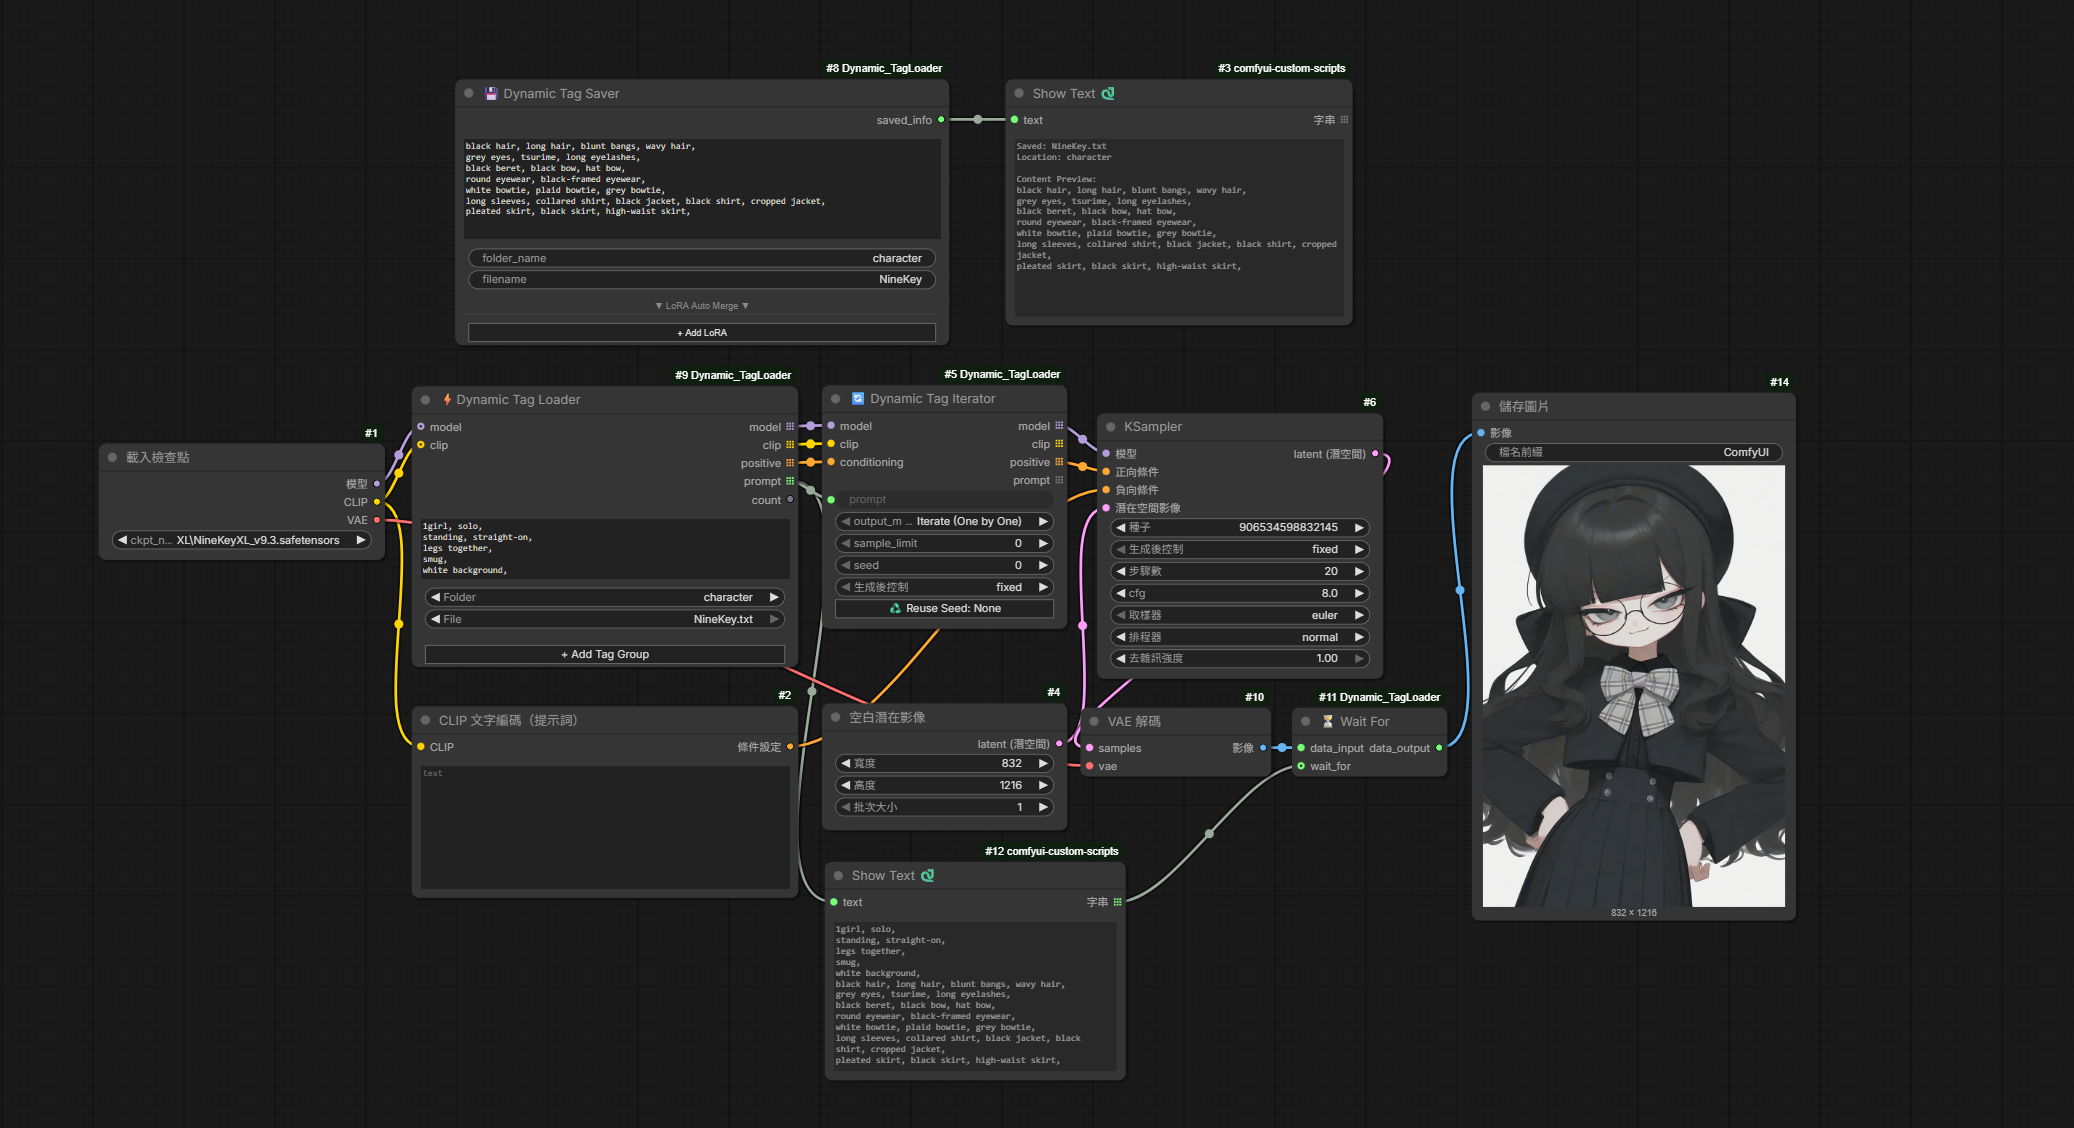
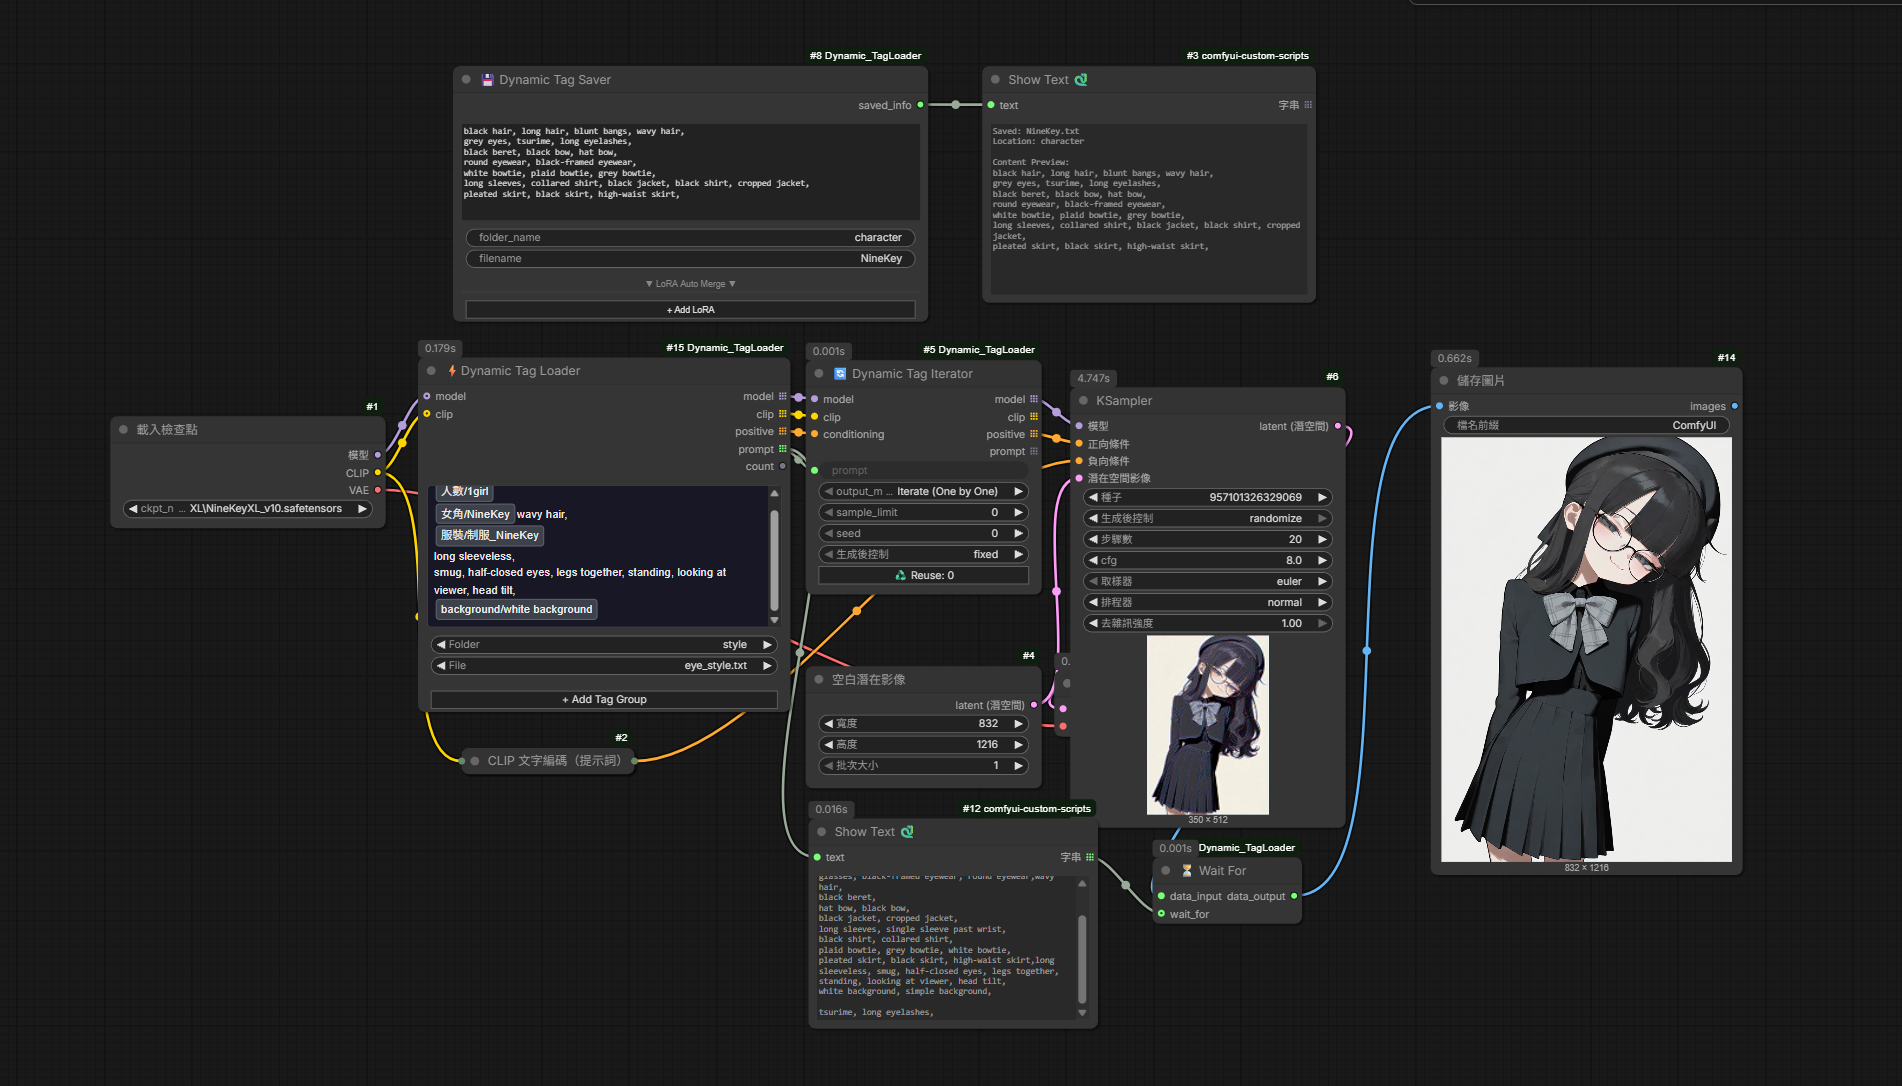
Update Dynamic Tag workflow example

Changed region(s): [[0.031, 0.0304, 0.9306, 0.9724]]

diff --git a/README_jp.md b/README_jp.md
@@ -13,8 +13,6 @@
 
 ## チップ式プロンプト編集
 
-![Dynamic Tag Loader チップ式プロンプト編集例](./example/Dynamic_Tag_composer_example.png)
-
 ⚡ Dynamic Tag Loader のプロンプト編集欄で `@` を入力すると、tag `.txt` ファイルを検索して挿入できます。挿入したタグはチップとして表示され、通常のテキストと自由に混在できます。チップをクリックして `Ctrl + ↑ / ↓` を使うと、ComfyUI 標準のルールで強度を調整できます。Backspace、Delete、コピー、貼り付けによる編集にも対応しています。
 
 ## インストール

diff --git a/README_en.md b/README_en.md
@@ -14,8 +14,6 @@
 
 ## Chip-based Prompt Editing
 
-![Dynamic Tag Loader chip-based prompt editing example](./example/Dynamic_Tag_composer_example.png)
-
 Type `@` in the ⚡ Dynamic Tag Loader prompt editor to search for and insert tag `.txt` files. Inserted tags appear as chips and can be freely mixed with normal text. Click a chip and use `Ctrl + ↑ / ↓` to adjust its strength with ComfyUI's native rules; Backspace, Delete, copy, and paste are supported for quick editing.
 
 ## Installation

diff --git a/README.md b/README.md
@@ -13,8 +13,6 @@
 
 ## 方塊式 Prompt 編輯
 
-![Dynamic Tag Loader 方塊式 Prompt 編輯範例](./example/Dynamic_Tag_composer_example.png)
-
 在 ⚡ Dynamic Tag Loader 的 Prompt 編輯區輸入 `@`，即可搜尋並插入 tag `.txt` 檔。插入後會以方塊顯示，可與一般文字自由混排；點選方塊後可用 `Ctrl + ↑ / ↓` 依 ComfyUI 原生規則調整強度，並可用 Backspace、Delete、複製與貼上快速編輯。
 
 ## 安裝說明 (Installation)
